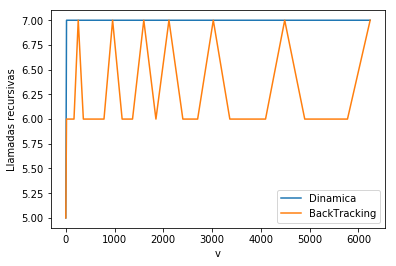
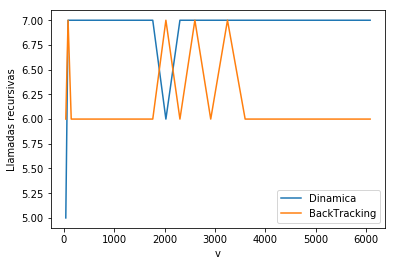
Update informe

diff --git a/informe/desarrollo.tex b/informe/desarrollo.tex
@@ -89,6 +89,35 @@ $minParcial$ y se llega al caso base, por lo que se devuelve 0.
 de incluirlo el $cardinalParcial$ aumenta en 1.
 
 \subsection{Programaci\'on Din\'amica}
+\subsubsection{Correctitud}
+Caracterizaci\'on de una solución \textbf{óptima} S para el problema original:
+\par - Si $n \not\in$ $S$, entonces la mejor solución es $S =S_1$, siendo $S_1$ solución
+óptima para \{$v_1 , v_2 , v_3 ,..., v_{n}$\} llegando al valor objetivo $V$
+\par - Si $n \in S$, entonces la mejor solución es $S = \{n\} \cup S_2$, siendo $S_2$
+solución óptima para \{$v_1 , v_2 , v_3 ,..., v_{n}$\} llegando al valor objetivo $V - v_n$
+\par Por lo tanto, como esas son las únicas dos posibilidades, $S$ deberá ser la que use menos elementos entre 
+$S_1$ y $\{n\} \cup S_2$
+\par Usando esta caracterización, puedo elaborar una recursión
+que calcule la cantidad óptima de elementos necesarios:
+\begin{equation*}
+  f(i,V)=\begin{cases}
+    $\qquad\qquad$0 & \text{si $i=0$, $V=0$}.\\
+    $\qquad\qquad$\infty & \text{si $i=0$, $V\neq 0$}.\\
+    $\qquad\;\;\;$f($i$ $-$ $1$,$V$) & \text{si $i> 0$, $v_i > 0$}.\\
+    min (f($i$ $-$ $1$,$V$),f($i$ $-$ $1$,$V$)) & \text{si $i> 0$, $v_i > 0$}.\\
+  \end{cases}
+\end{equation*}
+\subsubsection{Principio de optimalidad}
+\par Se puede ver que para este problema se puede aplicar el principio de optimalidad: una secuencia \'optima de
+decisiones esta formada por subsecuencias que a su vez son \'opitmas.
+Sea un conjunto $S$ donde $|S|=n$, $S_1\subset S$ el subconjunto \'optimo 
+para los elementos $v_1, ... , v_i$  y valor objetivo
+$V_1$ y $S_2\subset S$ el subconjunto \'optimo para los elementos $v_1, ..., v_{i-1}$ para formar $V_2$.
+Supongo que puedo formar un conjunto $S' = S_2\cup {v_i}$, luego $|S'| = |S_2| + 1$ y $V'= V_2 + v_i'$.
+\par Si $S'$ fuese \'optimo luego $V'\neq V_1$ entonces $V'\neq V_1$. Pero si $S'\neq S=S_1$ 
+y $S'$ es \'optimo lo cual es
+absurdo ya que $S_1$ es \'optimo tomando $v_1,...,v_i$ entonces $S_1=S_2$ y $V_1 = V_2$.
+\par Entonces, se cumple es principio de optimalidad.
 
 \begin{codebox}
     \Procname{\proc{ResolverDinamica}(int V, int[] S, int i, int n, matriz resultados) \textcolor{red}{O($n*V$)}}
@@ -102,8 +131,8 @@ de incluirlo el $cardinalParcial$ aumenta en 1.
                 \End
     \li \If $noEstaDefinido(resultados[i][V]$):  \textcolor{red}{O($1$)}
         \Then 
-    \li          \Return min(ResolverDinamica($V$,$S$,$i-1$,$n$,$resultados$,
-                            \\ $\qquad\qquad$$\qquad\quad\,\,$ $1+$ResolverDinamica($V-S[i]$,$S$,$i-1$,$n$,$resultados$)) \textcolor{red}{O($n*V$)}
+    \li          resultados[i][vDeseado] = min(ResolverDinamica($V$,$S$,$i-1$,$n$,$resultados$,
+                            \\ $\qquad\qquad\qquad\qquad\qquad\qquad$$\qquad\quad\,\,$ $1+$ResolverDinamica($V-S[i]$,$S$,$i-1$,$n$,$resultados$)) \textcolor{red}{O($n*V$)}
                             \End
     \li \Return resultados[i][vDeseado]  \textcolor{red}{O($1$)}
     \end{codebox}
@@ -112,8 +141,8 @@ de incluirlo el $cardinalParcial$ aumenta en 1.
 % problema de para un valor objetivo $V'$ y un una cantidad de elementos $i$, 
 \par El algor\'itmo de Programaci\'on Din\'amica busca obtener una ventaja a partir de encarar al problema como
 subproblemas recursivos pero, teniendo en cuenta que hay subproblemas que se calculan m\'as de una vez, se 
-almacenan las subsoluciones  en una matriz de $n$ filas y $V$ columnas la cual es inicializada con ceros en
-la primer columna (ya que acceder a esa columna implica que se lleg\'o a $V=0$, es decir, se encontr\'o un subconjunto v\'alido).
+almacenan las subsoluciones  en una matriz de $n$ filas y $V$ columnas la cual es inicializada con basura (alg\'un n\'umero negativo)
+en todos sus posiciones a modo de identificar las soluciones calculadas.
  El objetivo de guardar las soluciones es poder acceder a ellas
 r\'apidamente. Es por esto que decidi\'i utilizar para almacenar las soluciones una matriz formada por un vector de 
 vectores, permiti\'endome acceder en $O(1)$ a las soluciones ya calculadas.

diff --git a/informe/resultados.tex b/informe/resultados.tex
@@ -60,7 +60,7 @@ raz\'on por la cual de ahora en m\'as solo voy a comparar el de Fuerza Bruta y e
 \begin{figure}[H] 
     \centering
     \begin{minipage}{0.45\textwidth}
-        \centering
+        \centering 
         \includegraphics[width=1\textwidth]{img/llamadas/v/llamadasBackDinamicavChico.png} % first figure itself
         \caption{Comparaci\'on de las llamadas recursivas de BackTracking y Programac\'ion Din\'amica con $V = 16$}
         \label{fig:llamadasBackDinamicavChico}
@@ -90,11 +90,12 @@ raz\'on por la cual de ahora en m\'as solo voy a comparar el de Fuerza Bruta y e
 \end{figure}
 
 Observando las Figuras \ref{fig:llamadasBackDinamicavChico}, \ref{fig:llamadasBackDinamicavGrande},
-\ref{fig:tiempoBackDinamicavChico} y \ref{fig:tiempoBackDinamicavGrande} se logra
+\ref{fig:tiempoBackDinamicavChico}, \ref{fig:tiempoBackDinamicavGrande} se logra
 ver que los resultados obtenidos se condicen con las hip\'otesis previamente planteadas: con un valor objetivo $V$
-``chico'' el algor\'itmo de Programaci\'on Din\'amica realiza menos llamadas (lo cual conlleva a un mayor tiempo
-de ejecuci\'on)que el de BackTracking, aunque con un $V$ ``grande'' se da exactamente al rev\'es.
-\begin{figure}[H] 
+``chico'' el algoritmo de Programaci\'on Din\'amica realiza menos llamadas (lo cual conlleva a un mayor tiempo
+de ejecuci\'on) que el de BackTracking, aunque con un $V$ ``grande'' de manera que $V*n \gg 2^n$ resulta coveniente
+utilizar el algoritmo de BackTracking. 
+ \begin{figure}[H] 
     \centering
     \begin{minipage}{0.45\textwidth}
         \centering
@@ -104,11 +105,11 @@ de ejecuci\'on)que el de BackTracking, aunque con un $V$ ``grande'' se da exacta
         \label{fig:backDinNChico} 
     \end{minipage}\hfill
     \begin{minipage}{0.45\textwidth}
-        \centering
+        \centering 
         \includegraphics[width=1\textwidth]{img/llamadas/n/backDinNGrande.png} % first figure itself
         \caption{Comparaci\'on entre la cantidad de llamadas recursivas entre BackTracking y Programaci\'on
         \label{fig:backDinNGrande} 
-        Din\'amica para $n=29$}
+        Din\'amica para $n=941$}
     \end{minipage}
 \end{figure}
 
@@ -123,7 +124,7 @@ Estimo que esto se debe a que la complejidad depende linealmente de $V$.
 
 
 \subsection{Experimentaci\'on ``No Llega''}
-\subsubsection{Resultads y Comparaciones}
+\subsubsection{Resultados y Comparaciones}
 
 \begin{figure}[H] 
     \centering
@@ -171,7 +172,7 @@ operaciones extras en total.
     \begin{minipage}{0.45\textwidth}
         \centering
         \includegraphics[width=1\textwidth]{img/nollega/dinamicatiempo.png} % first figure itself
-        \caption{Comparaci\'on entre el tiempo de ejecuci\'on de BackTracking y Fuerza Bruta}
+        \caption{Tiempo de ejecuci\'on de Programaci\'on Din\'amica}
         \label{fig:dinamicatiemponollega} 
     \end{minipage}
 \end{figure}

diff --git a/expe/notebook.py b/expe/notebook.py
@@ -2,33 +2,36 @@
 
 #%%
 import random
-import os
+import os 
 import glob
 import subprocess
+import numpy as np
 
 
 #%%
 # TEST RANDOM
-for x in range(0,10):
-    for vDeseado in [x**2 for x in range(1,80,3)]:
-        for n in range (1,30):
-            nombreArchivo = "/home/cristian/Facu/AlgoritmosIII/Tps/TP1/expe/randomV" + str(vDeseado) + "n" + str(n) +".txt"
+for x in range(0,3):
+    for vDeseado in [20,10000]:
+    # for vDeseado in [x**2 for x in range(6,200,3)]:
+        for n in range (1,1000,10):
+            nombreArchivo = "/home/cristian/Facu/AlgoritmosIII/Tps/TP1/expe/randomVV" + str(vDeseado) + "n" + str(n) +".txt"
             f = open(nombreArchivo, "a+")
             f.write(str(n)+" "+str(vDeseado)+ "\n")
+
             for n in range (0,n):
                 numero = random.randint(1,vDeseado - (vDeseado//10))
                 f.write(str(numero)+ "\n")
 
+
             f.close() 
-            os.system("cat " + str(nombreArchivo) + " | ../build/tp 1 >> resultados/FBRandom.csv")
-            os.system("cat " + str(nombreArchivo) + " | ../build/tp 2 >> resultados/DinRandomFinal.csv")
-            os.system("cat " + str(nombreArchivo) + " | ../build/tp 3 >> resultados/BackRandom.csv")
+            # os.system("cat " + str(nombreArchivo) + " | ../build/tp 1 >> nGrande/FBRandom.csv")
+            os.system("cat " + str(nombreArchivo) + " | ../build/tp 2 >> nGrande/DinRandomFinal.csv")
+            os.system("cat " + str(nombreArchivo) + " | ../build/tp 3 >> nGrande/BackRandom.csv")
 
             os.remove(nombreArchivo)
-
-    os.system("echo >> resultados/FBRandom.csv")
-    os.system("echo >> resultados/DinRandomFinal.csv")
-    os.system("echo >> resultados/BackRandom.csv")
+    # os.system("echo >> nGrande/FBRandom.csv")
+    os.system("echo >> nGrande/DinRandomFinal.csv")
+    os.system("echo >> nGrande/BackRandom.csv")
     print("Termino " + str(x))
 
 print("Terimno Random")

diff --git a/informe/experimentacion.tex b/informe/experimentacion.tex
@@ -6,10 +6,9 @@ aporte al tiempo de ejecuci\'on. A\'un as\'i, tambi\'en analizar\'e el tiempo de
 \subsubsection{Metodolog\'ia}
 \par Para esta experimentaci\'on se busc\'o analizar como inciden $n$ y $V$ en cada una
 de las distintas maneras de resolver el problema en cuesti\'on. 
-\par Para generar los n\'umeros de manera ``aleatoria'' utilc\'e la funci\'on \texttt{randint()} 
-de la librer\'ia estandar de Python, de manera que cada valor del arreglo $S$ sea un valor aleatorio entre $0$ y
-$0.9*V$. Utilic\'e este intervalo de n\'umeros de manera que exista la posibilidad que exista alg\'un subconjunto
-cuya suma sea $V$.
+\par Para generar los n\'umeros de manera ``aleatoria'' utilc\'e la funci\'on \texttt{normalvariate()} con 
+de la librer\'ia estandar de Python con $\mu = 0 $ y $\sigma = (V // n)$ y luego tomo congruencia m\'odulo $1.5*V$
+Utilic\'e esta forma de generar los $v_i$ a modo de proveer ``igualdad de condiciones'' para todos los algoritmos.
 \par Dado que los experimentos se basan en la utilizaci\'on de par\'ametros aleatorios, se corri\'o 10 veces cada
 uno para poder promediarlos a modo de evitar minimizar las fluctuaciones que pudo haber generado el hecho de usar
 n\'umeros aleatorios.

diff --git a/informe/informe.tex b/informe/informe.tex
@@ -7,6 +7,7 @@
     \usepackage{verbatim}
     \usepackage{clrscode3e}
     \usepackage{amssymb}
+    \usepackage{amsmath}
     \usepackage{amsfonts} % for the \checkmark command 
     \usepackage{graphicx}
     \usepackage{float}

diff --git a/CHANGELOG.md b/CHANGELOG.md
@@ -1,0 +1,8 @@
+Cambios en la experimentacion
+- Distribucion de los vi utilizando normalvariate
+- N mas grande para BackTracking y Dinamica
+
+Cambios en el informe
+- Cambios en experimentacion
+- Update de graficos
+- Correctitud y optimalidad
